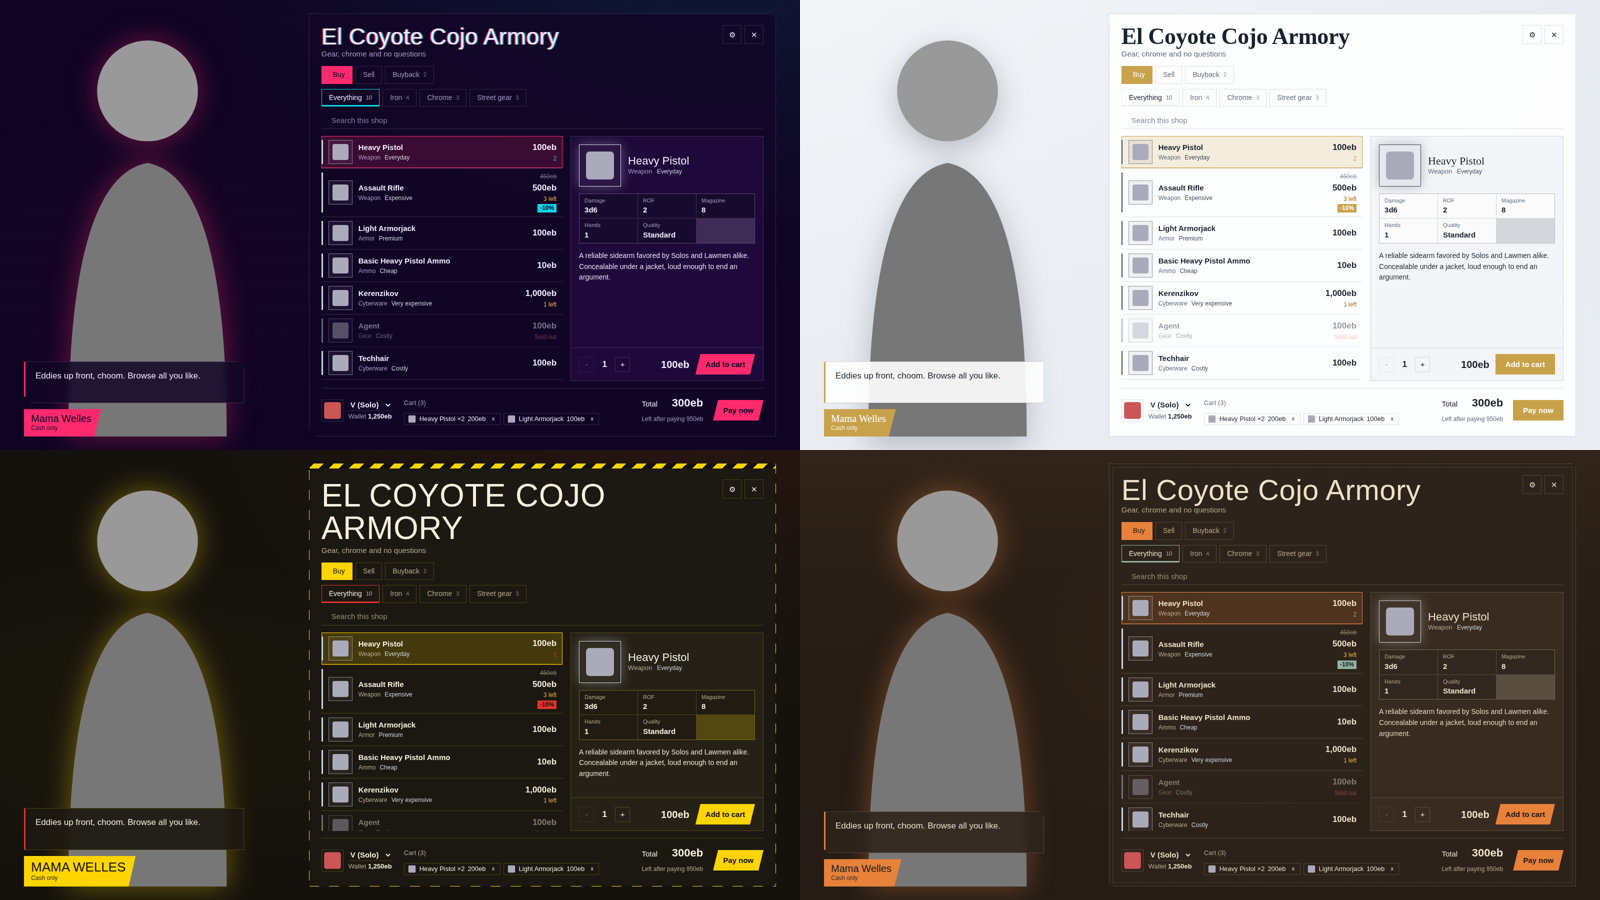
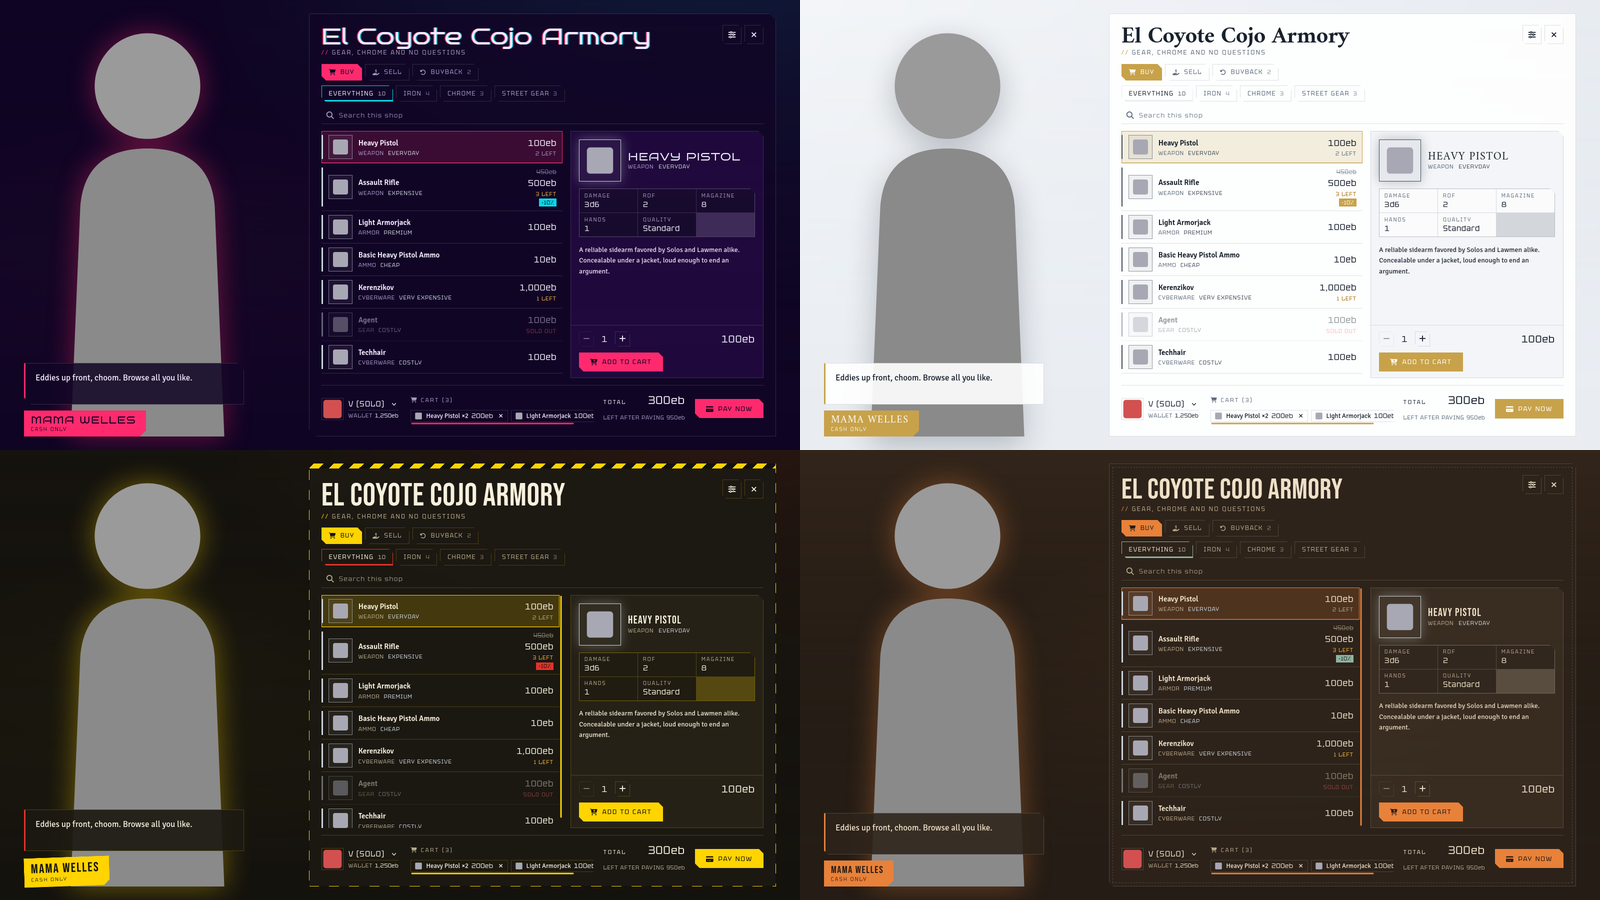
Neon Market 1.2.1: screenshot refresh and small style fixes
- Keep the "left after paying" amount in lowercase eb
- Thin, theme-colored scrollbars in every shop pane
- README screenshots of the 1.2 look, plus the Night City chrome theme

diff --git a/styles/neon-market.css b/styles/neon-market.css
@@ -106,6 +106,9 @@
   font-family: var(--nm-font-body);
   font-size: 15px;
   line-height: 1.4;
+  /* Inherited, so every scrolling pane gets a thin themed bar. */
+  scrollbar-width: thin;
+  scrollbar-color: color-mix(in srgb, var(--nm-accent) 70%, transparent) transparent;
   isolation: isolate;
   animation: nm-shell-in 280ms ease-out both;
 }
@@ -644,6 +647,7 @@
   overflow-x: auto;
   overflow-y: hidden;
   scrollbar-width: thin;
+  scrollbar-color: var(--nm-accent) transparent;
 }
 .neon-market .layout-character .nm-cart-lines li {
   flex: 0 0 auto;
@@ -810,6 +814,7 @@
 .neon-market .nm-qty output,
 .neon-market .nm-stats dd,
 .neon-market .nm-cart-price,
+.neon-market .nm-cart-after span,
 .neon-market .nm-balance strong,
 .neon-market .nm-funds strong {
   font-family: var(--nm-font-num);

diff --git a/CHANGELOG.md b/CHANGELOG.md
@@ -1,5 +1,11 @@
 # Changelog
 
+## 1.2.1
+
+- Fixed: "Left after paying" showed its amount in capitals ("950EB").
+- Every scrolling pane in the shop has a thin scrollbar in the theme's color, instead of the browser's default (a bright white bar under the cart in some browsers).
+- README screenshots show the 1.2 look, with a new one of the Night City chrome theme.
+
 ## 1.2.0
 
 One look with Neon Hub: the market now wears the Neon Hub calendar's chrome.

diff --git a/README.md b/README.md
@@ -9,6 +9,7 @@ with eurobucks that land in the CPR wealth ledger.
 | Foundry VTT | v12 (built with v13+ APIs in mind, see below) |
 | Cyberpunk RED - CORE | 0.92 (verified against 0.92.4 source) |
 
+![Night City chrome, the default theme](docs/theme-chrome.png)
 ![Character layout themes](docs/themes-character.png)
 ![Grid layout themes](docs/themes-grid.png)
 
